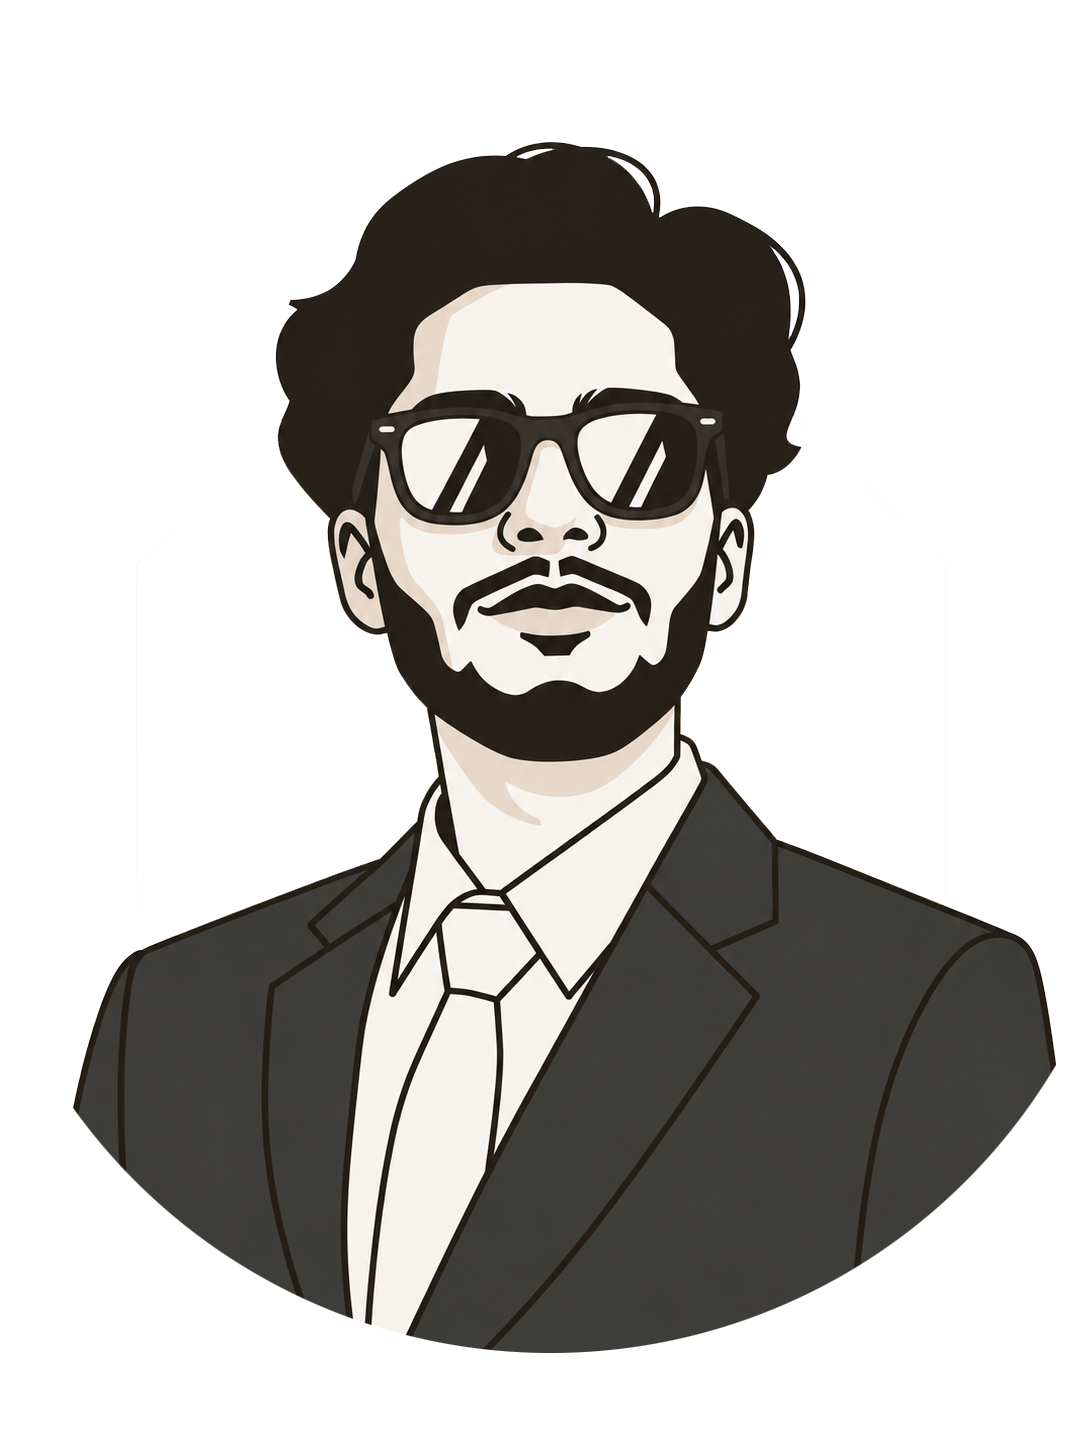
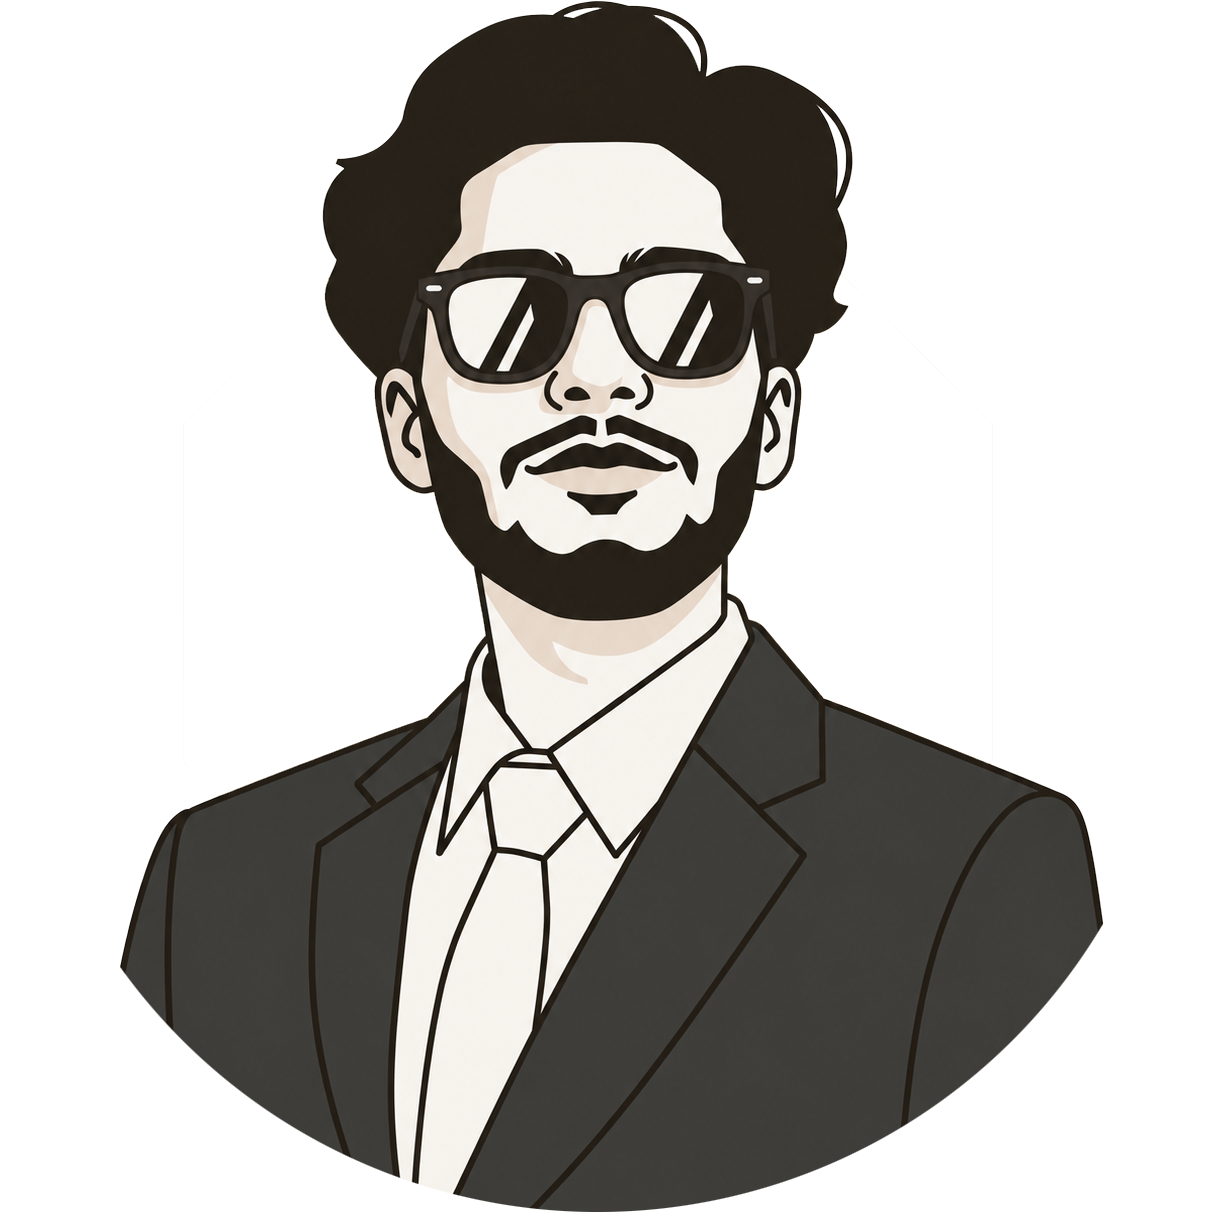
photo adjust

Changed region(s): [[0.0608, 0.0, 0.9733, 1.0], [0.5779, 0.7937, 0.6083, 0.8243]]

diff --git a/app/components/hero-mark.tsx b/app/components/hero-mark.tsx
@@ -69,7 +69,7 @@ export function HeroMark() {
         initial={reduce ? false : { opacity: 0, y: 16 }}
         animate={{ opacity: 1, y: 0 }}
         transition={{ duration: 0.7, delay: 0.1, ease: [0.16, 1, 0.3, 1] }}
-        className="absolute left-[16%] right-[17%] top-[4%] overflow-hidden rounded-[2rem]"
+        className="absolute left-[13%] right-[12%] top-[0%] overflow-hidden rounded-[2rem]"
         style={{ aspectRatio: "500 / 669" }}
       >
         <Image